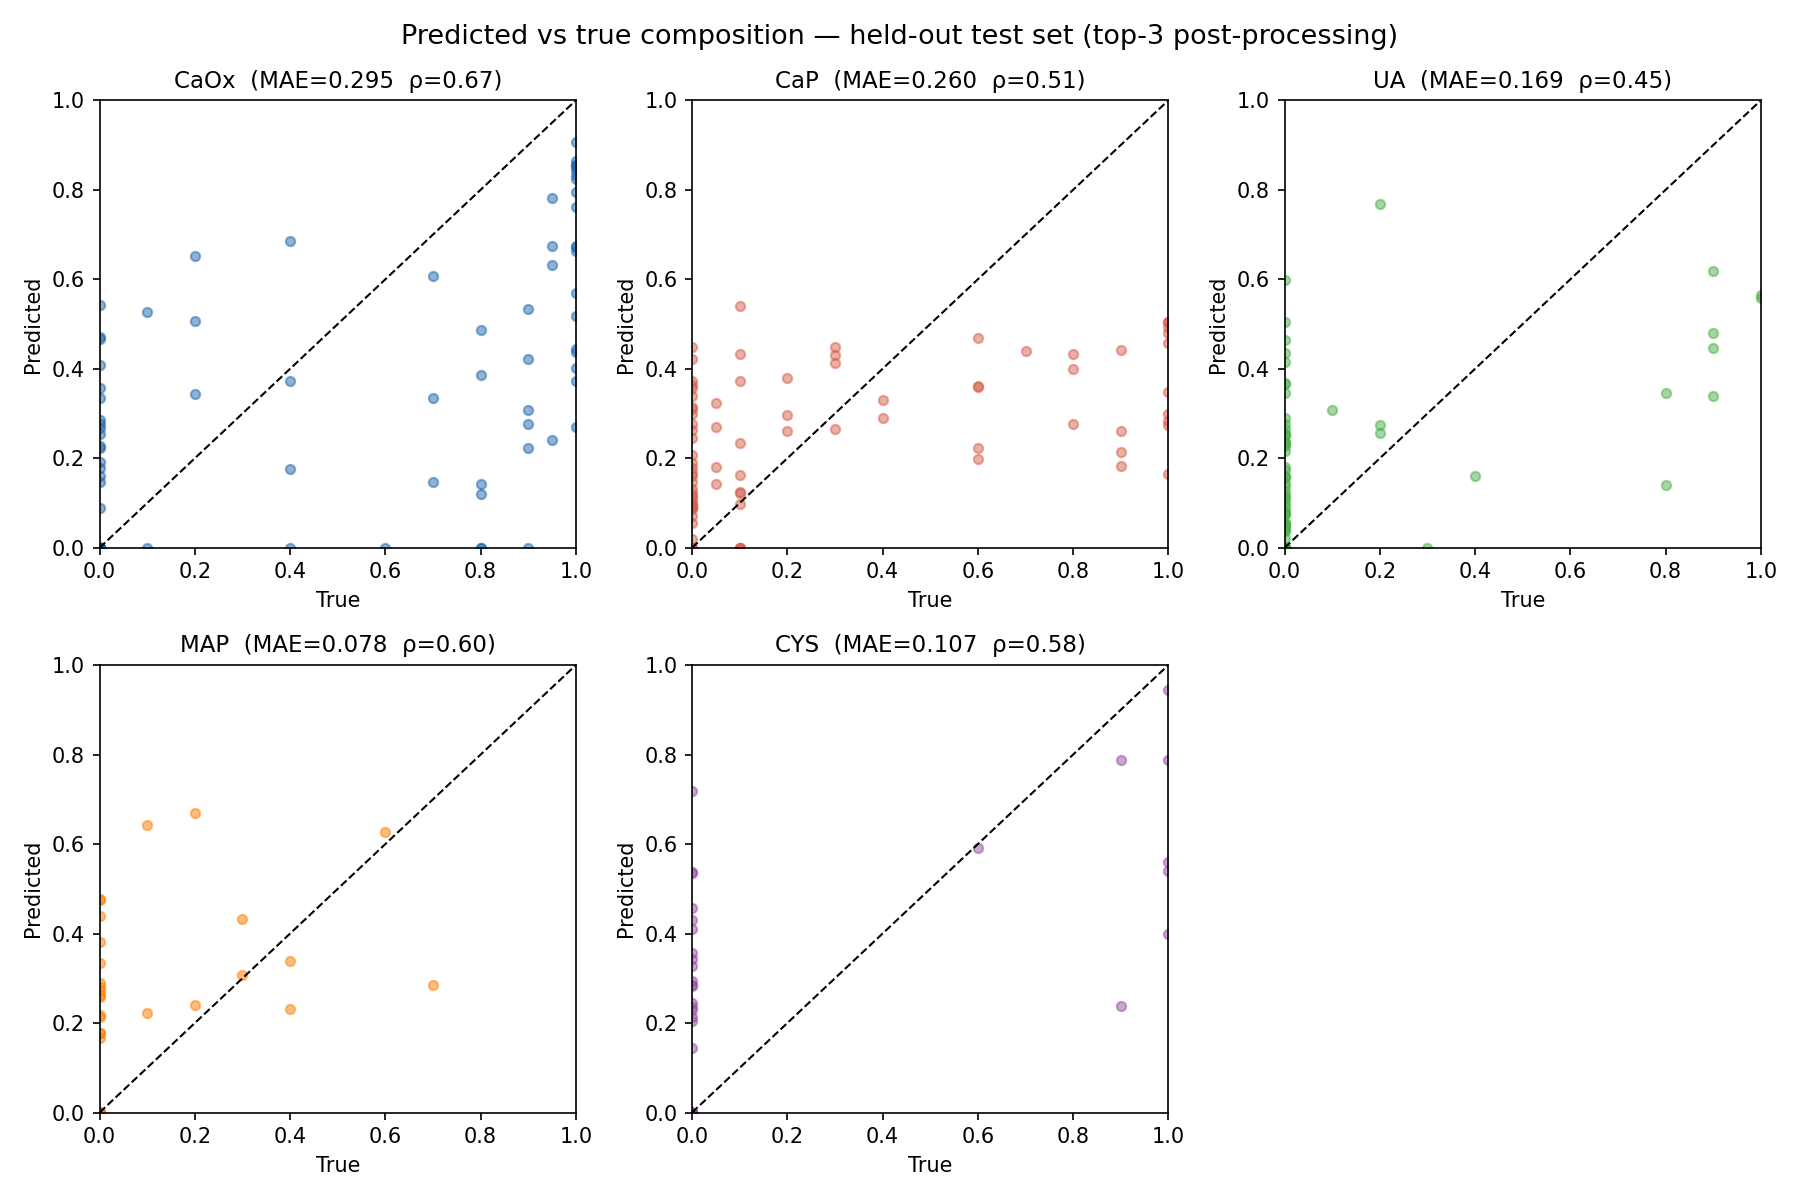
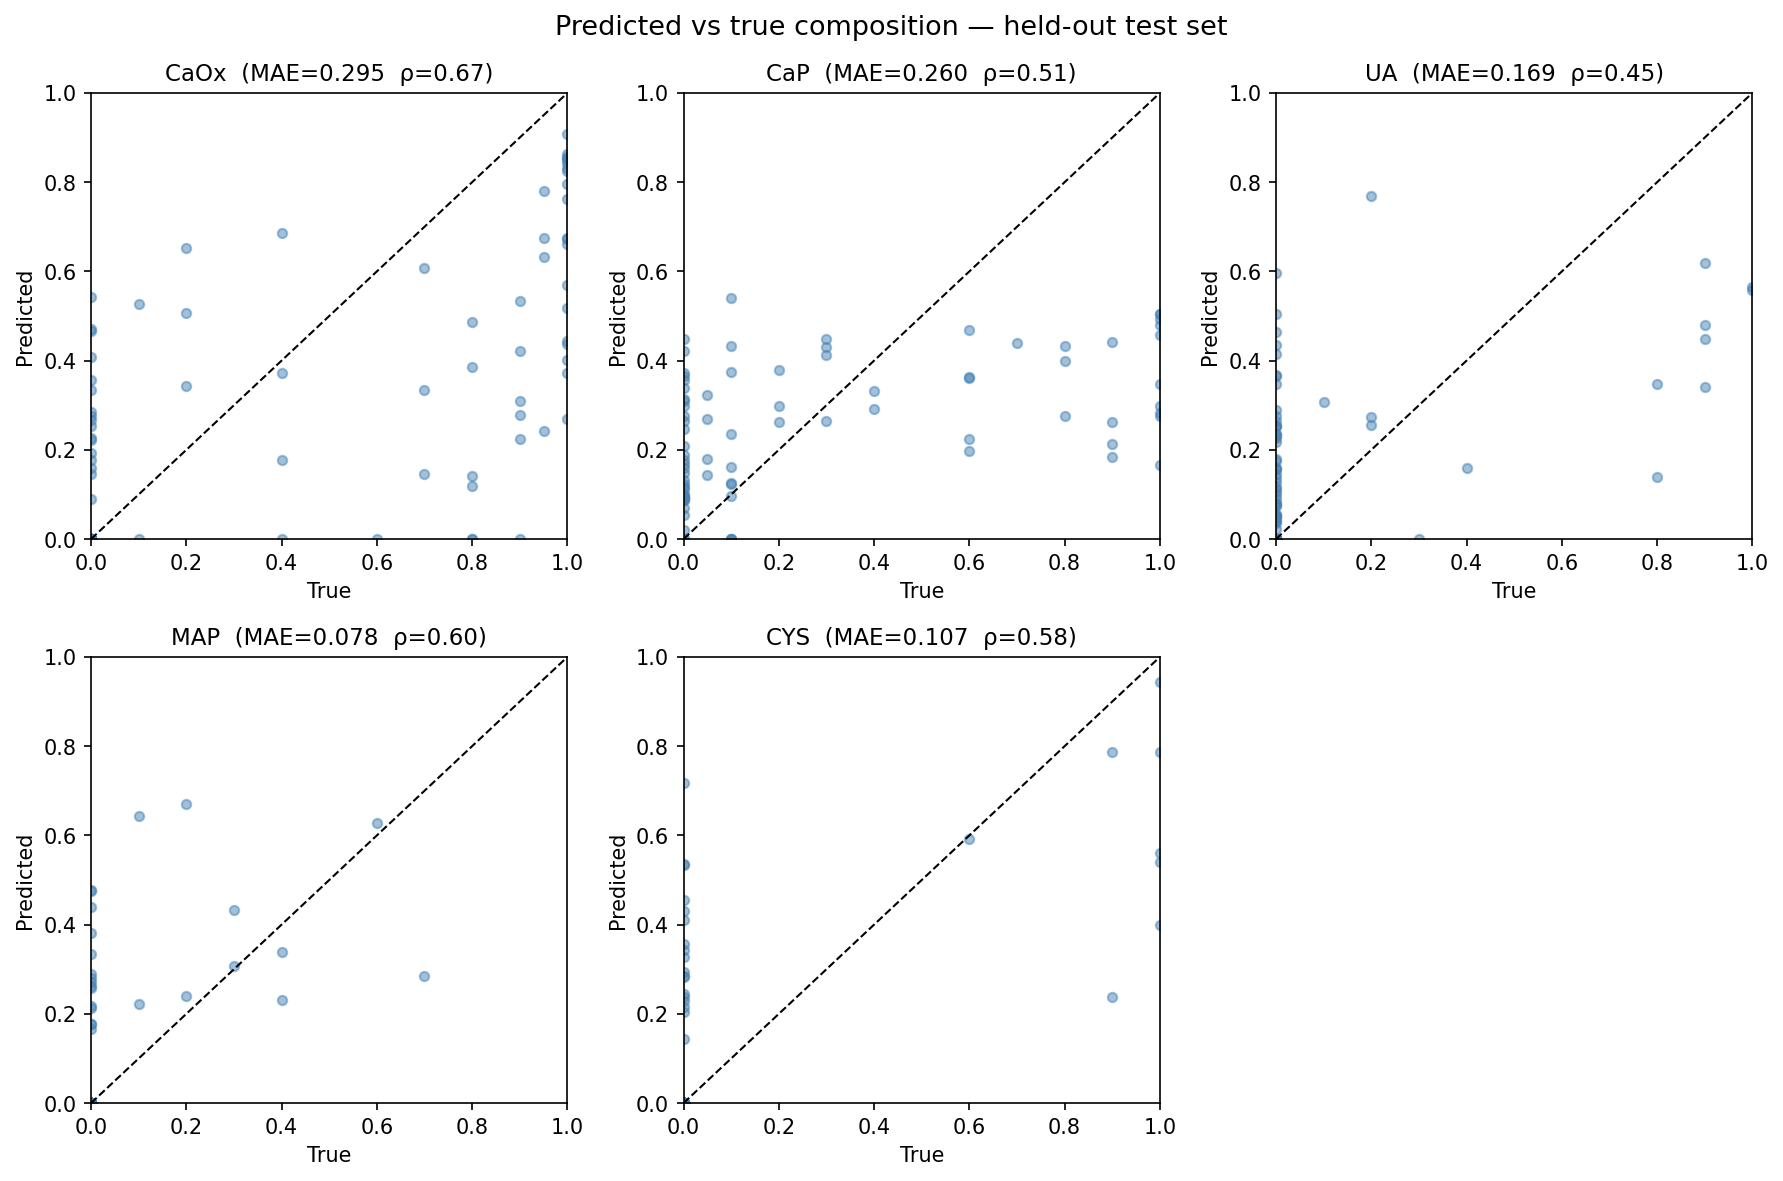
Fix scatter plot: regenerate with top-3 post-processing applied, add method to violin caption
The top-3 post-processing (zero smallest 2 fractions, renormalise) was
confirmed as the actual analysis behind the canonical MAE values (0.295
for CaOx). Scatter plot regenerated with clean title; violin caption now
discloses the post-processing step consistently.

diff --git a/main.tex b/main.tex
@@ -343,7 +343,7 @@ The violin plot reveals an important asymmetry in the errors. CaOx predictions a
 \begin{figure}[H]
     \centering
     \includegraphics[width=\columnwidth]{figures/simple_composition_error_violin_test.png}
-    \caption{\textbf{Per-class prediction error distribution for Model B on the held-out test set.} Each violin shows the distribution of (predicted $-$ true) composition fractions. The horizontal line at zero indicates perfect prediction; the crossbar shows the median. MAE and Spearman's $\rho$ are annotated per class. CaOx and CaP show the widest error distributions, with CaOx systematically underpredicted and CaP overpredicted, suggesting the model struggles to partition composition between these co-occurring classes.}
+    \caption{\textbf{Per-class prediction error distribution for Model B on the held-out test set.} Each violin shows the distribution of (predicted $-$ true) composition fractions after top-3 post-processing (the three smallest predicted fractions per stone are set to zero and the vector is renormalised). The horizontal line at zero indicates perfect prediction; the crossbar shows the median. MAE and Spearman's $\rho$ are annotated per class. CaOx and CaP show the widest error distributions, with CaOx systematically underpredicted and CaP overpredicted, suggesting the model struggles to partition composition between these co-occurring classes.}
     \label{fig:violin}
 \end{figure}
  